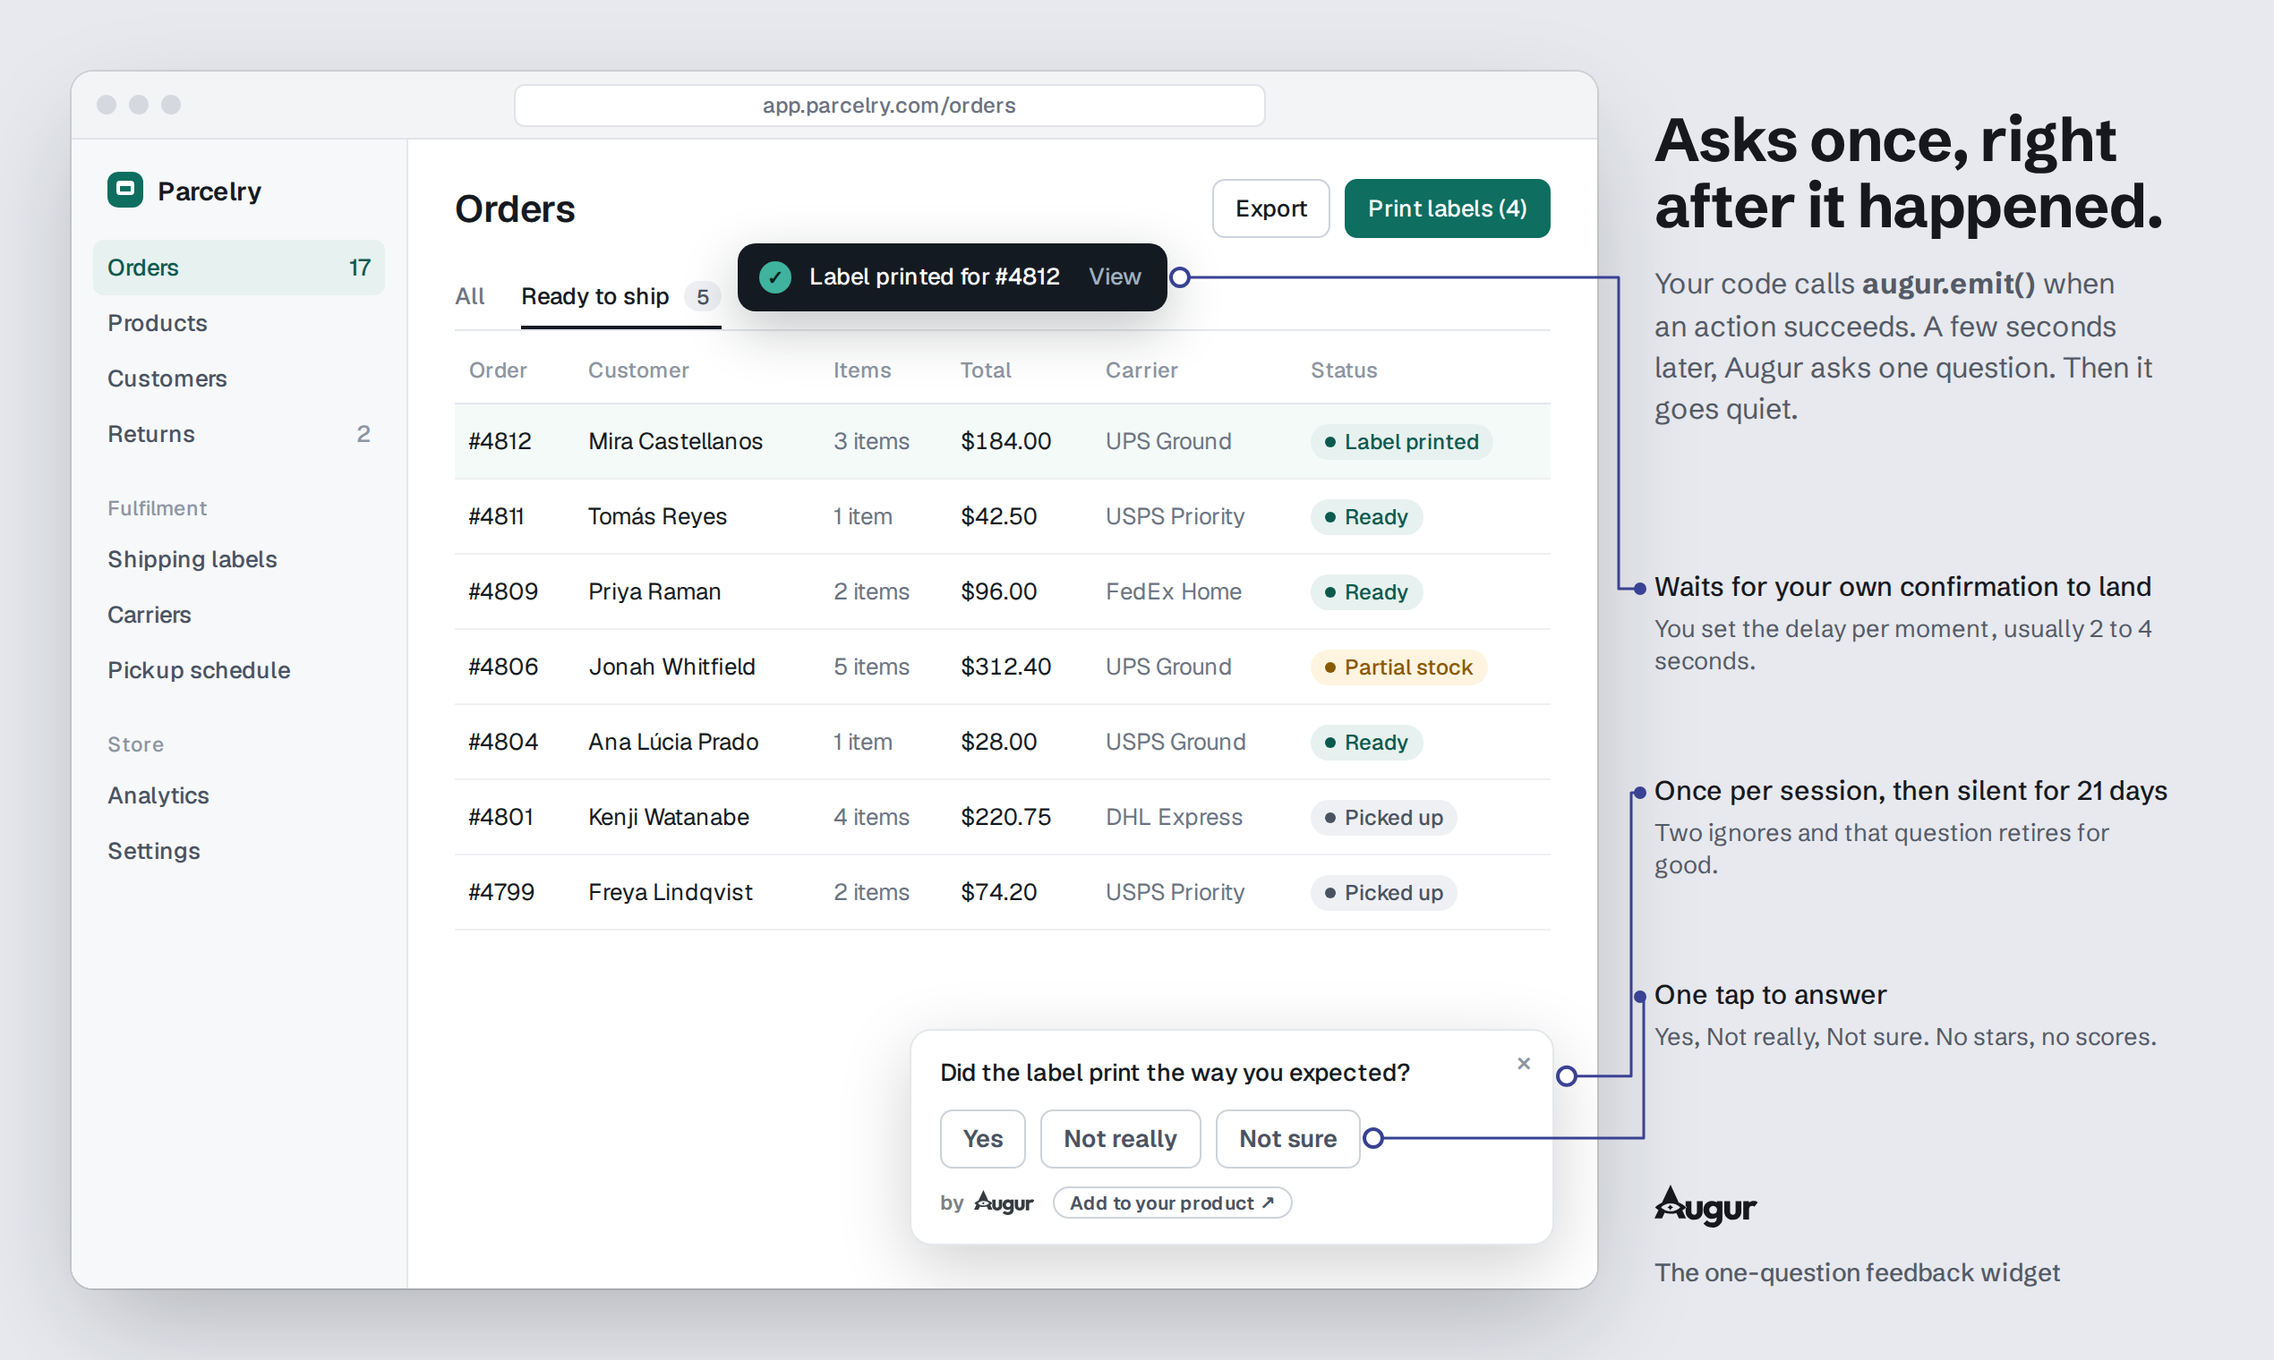
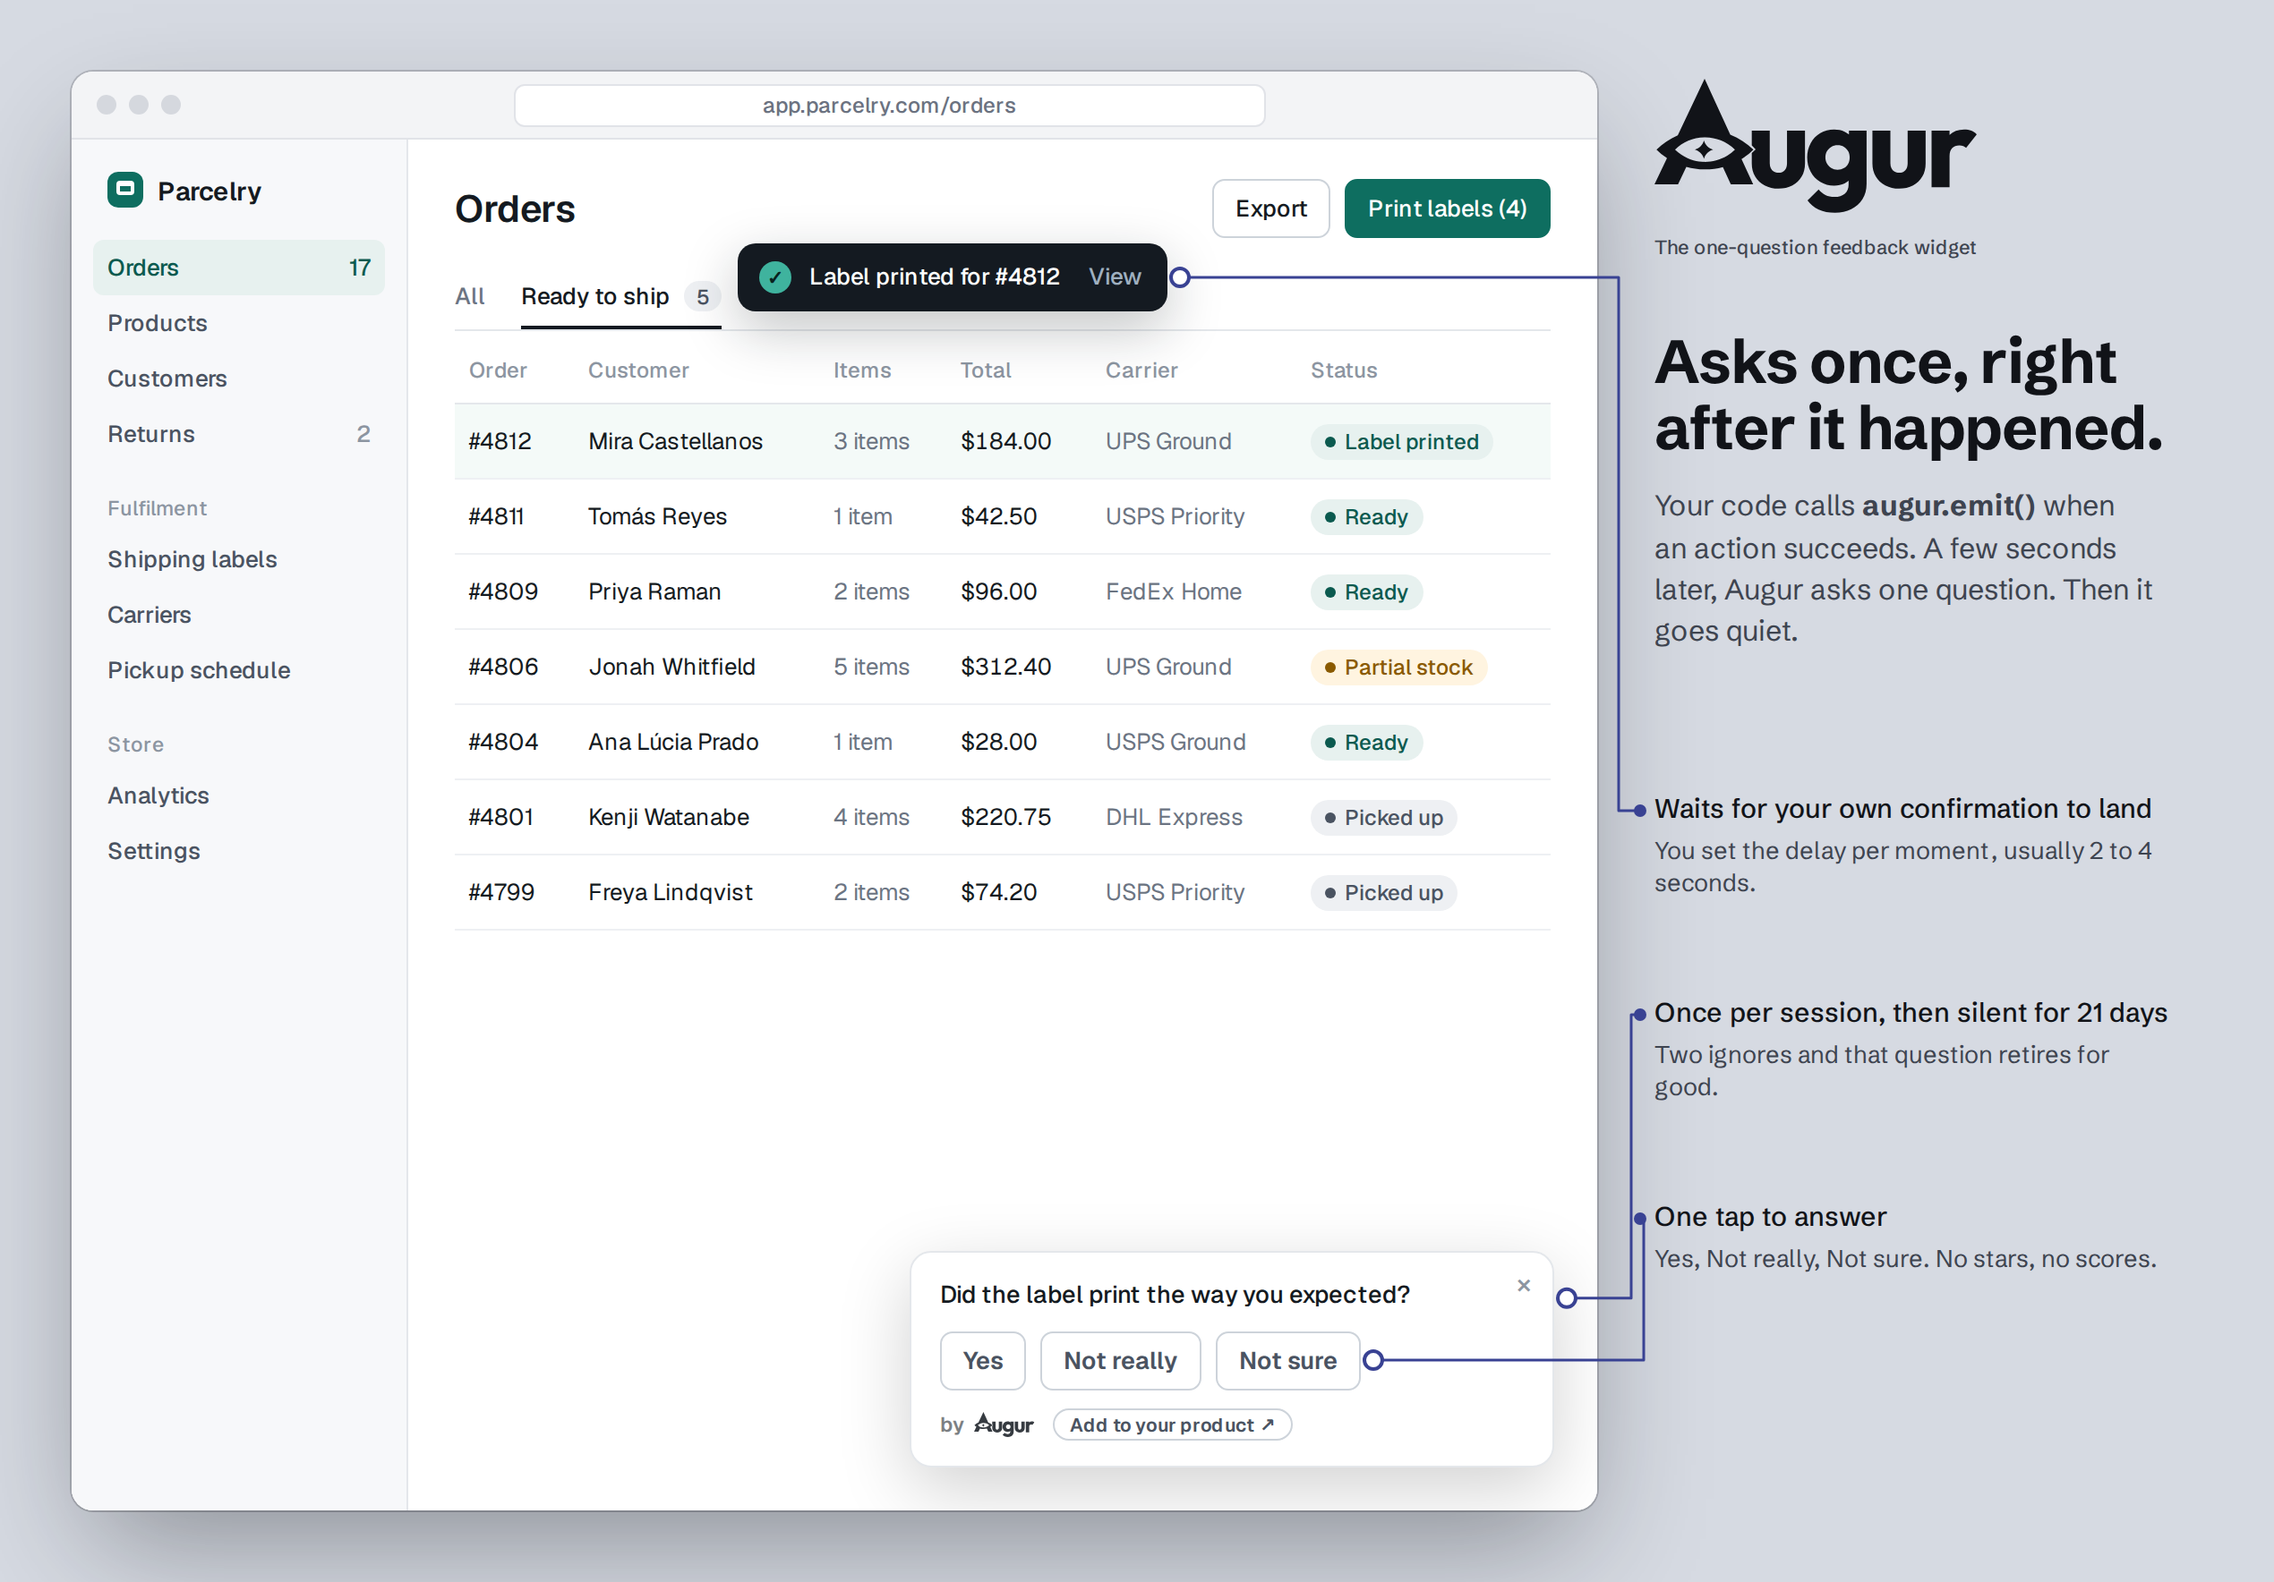
Gallery: higher contrast, larger wordmark lockup at top right
- Deeper frame ground, darker secondary text and a firmer window
  outline and shadow, so the product shot separates from the page.
- The Augur lockup moves from the bottom corner to the top of the side
  column, at 180px wide, on all three frames. The tagline is sized to
  run exactly the wordmark's width.
- Frames grow 124px taller to make room; the side column, notes, code
  card and prompt inset shift down with it, and the browser window
  grows to match. PNGs re-exported at 2x.

Claude-Session: https://claude.ai/code/session_0182RV45qnB2tjMoAwA4TVXF

diff --git a/.github/assets/gallery/gallery.html b/.github/assets/gallery/gallery.html
@@ -8,25 +8,27 @@
 <link href="https://fonts.googleapis.com/css2?family=Schibsted+Grotesk:wght@400;500;600;700&family=Geist:wght@400;500;600&family=Manrope:wght@400;500;600;700&family=Figtree:wght@400;500;600;700&family=JetBrains+Mono:wght@400;500&display=swap" rel="stylesheet">
 <style>
 /* ─── Gallery layer: the frame around each product shot ─────────────────── */
-:root { --mist: #E7E9EE; --ink: #16181D; --ink-2: #545A66; --pin: #394293; --pin-soft: #DADDF2; }
+:root { --mist: #D6DAE2; --ink: #111318; --ink-2: #3E4450; --top: 124px; --pin: #394293; --pin-soft: #DADDF2; }
 * { box-sizing: border-box; }
 body { margin: 0; background: #C9CDD5; padding: 40px 0; display: grid; gap: 40px; justify-content: center; font-family: "Schibsted Grotesk", system-ui, sans-serif; }
-.frame { position: relative; width: 1270px; height: 760px; background: var(--mist); overflow: hidden; color: var(--ink); }
+.frame { position: relative; width: 1270px; height: calc(760px + var(--top));  background: var(--mist); overflow: hidden; color: var(--ink); }
 .frame .lines { position: absolute; inset: 0; pointer-events: none; z-index: 5; }
 
-.side { position: absolute; left: 924px; top: 60px; width: 306px; }
+.side { position: absolute; left: 924px; top: 60px; width: 306px; translate: 0 var(--top); }
 .side h2 { font-size: 34px; line-height: 1.08; letter-spacing: -0.02em; font-weight: 700; margin: 0 0 14px; text-wrap: balance; }
 .side .sub { font-size: 16px; line-height: 1.45; color: var(--ink-2); margin: 0; text-wrap: pretty; }
-.brand { position: absolute; left: 924px; bottom: 40px; display: flex; flex-direction: column; align-items: flex-start; gap: 6px; line-height: 1.3; color: var(--ink); font-size: 14px; font-weight: 500; }
+.brand { position: absolute; left: 924px; top: 44px; width: 180px; display: flex; flex-direction: column; gap: 4px; color: var(--ink); }
+.brand .wm { width: 100%; height: auto; display: block; }
+.brand .by { display: block; white-space: nowrap; line-height: 1.1; font-weight: 500; }
 .brand .by { color: var(--ink-2); }
 
-.note { position: absolute; left: 924px; width: 290px; font-size: 15px; line-height: 1.38; font-weight: 500; }
+.note { position: absolute; left: 924px; width: 290px; translate: 0 var(--top); font-size: 15px; line-height: 1.38; font-weight: 500; }
 .note small { display: block; font-size: 13.5px; color: var(--ink-2); font-weight: 400; margin-top: 3px; }
 .note .n { display: inline-grid; place-items: center; width: 22px; height: 22px; border-radius: 50%; background: var(--pin); color: #fff; font-size: 12px; font-weight: 700; margin-right: 8px; vertical-align: 1px; }
 
 /* browser window */
-.win { position: absolute; left: 40px; top: 40px; width: 852px; height: 680px; border-radius: 12px; overflow: hidden;
-  box-shadow: 0 1px 0 rgba(0,0,0,.04), 0 24px 60px -12px rgba(22,24,29,.28), 0 0 0 1px rgba(22,24,29,.10); background: #fff; }
+.win { position: absolute; left: 40px; top: 40px; width: 852px; height: calc(680px + var(--top)); border-radius: 12px; overflow: hidden;
+  box-shadow: 0 1px 0 rgba(0,0,0,.04), 0 28px 64px -12px rgba(17,19,24,.38), 0 0 0 1px rgba(17,19,24,.18); background: #fff; }
 .chrome { height: 38px; display: flex; align-items: center; gap: 14px; padding: 0 14px; background: #F3F4F6; border-bottom: 1px solid #E1E3E8; }
 .chrome.dark { background: #1A1D23; border-bottom-color: #2A2E36; }
 .dots { display: flex; gap: 7px; } .dots i { width: 11px; height: 11px; border-radius: 50%; background: #D5D8DE; display: block; }
@@ -146,10 +148,10 @@ body { margin: 0; background: #C9CDD5; padding: 40px 0; display: grid; gap: 40px
 .cursor { position: absolute; z-index: 4; width: 20px; height: 24px; }
 
 /* inset: what augur.open() shows */
-.inset { position: absolute; left: 924px; width: 306px; }
+.inset { position: absolute; left: 924px; width: 306px; translate: 0 var(--top); }
 .inset .scaler { width: 460px; transform: scale(.665); transform-origin: 0 0; }
 .inset .augur { position: relative; right: auto; bottom: auto; }
-.code { font-variant-ligatures: none; font-feature-settings: "liga" 0, "calt" 0; position: absolute; left: 924px; width: 306px; background: #1B1E26; color: #D5DAE3; border-radius: 10px; padding: 12px 14px;
+.code { font-variant-ligatures: none; font-feature-settings: "liga" 0, "calt" 0; position: absolute; left: 924px; translate: 0 var(--top); width: 306px; background: #1B1E26; color: #D5DAE3; border-radius: 10px; padding: 12px 14px;
   font: 400 11.6px/1.6 "JetBrains Mono", monospace; white-space: pre; box-shadow: 0 10px 30px -10px rgba(22,24,29,.4); }
 .code .c { color: #7C8494; } .code .k { color: #C9B6FF; } .code .s { color: #A6D6A7; } .code .f { color: #8CC8FF; }
 .code, .code * { font-variant-ligatures: none; font-feature-settings: "liga" 0, "calt" 0; }
@@ -289,11 +291,20 @@ persistentButton: <span class="k">false</span>,
       <div class="by"><span class="w"><em>by</em> <svg width="33.64" height="14" viewBox="0 0 304.89 126.88" fill="currentColor" role="img" aria-label="Augur"><path d="m125.38,79.96c0,2.8-.71,5-2.15,6.62-1.43,1.62-3.4,2.43-5.91,2.43-1.69,0-3.16-.37-4.41-1.1-1.25-.74-2.21-1.79-2.87-3.15-.66-1.36-.99-2.96-.99-4.8v-30.8h-17.01v13.96l3.66,3.71-3.66,3.51v9.84c0,4.63,1.07,8.74,3.21,12.31,2.13,3.57,5.13,6.38,8.99,8.44,3.87,2.06,8.23,3.09,13.08,3.09s9.39-1.01,13.14-3.03c3.76-2.02,6.68-4.82,8.78-8.39,2.1-3.57,3.15-7.71,3.15-12.42v-31.02h-17.01v30.8Z"/><path d="m184,52.72c-1.23-1.03-2.61-1.9-4.14-2.62-2.9-1.37-6.2-2.05-9.88-2.05-4.85,0-9.21,1.16-13.08,3.48-3.86,2.32-6.9,5.46-9.11,9.44-2.2,3.97-3.31,8.5-3.31,13.58s1.11,9.42,3.31,13.47c2.21,4.04,5.23,7.25,9.06,9.6,3.82,2.36,8.2,3.53,13.13,3.53,3.68,0,6.98-.69,9.88-2.1,1.4-.67,2.67-1.46,3.81-2.38v3.27c0,3.83-1.19,6.77-3.58,8.83-2.4,2.06-5.69,3.09-9.88,3.09-3.24,0-6.06-.59-8.45-1.76-2.39-1.18-4.55-2.91-6.46-5.19l-10.49,10.37c2.58,3.68,6.09,6.53,10.55,8.56,4.45,2.02,9.58,3.04,15.4,3.04s10.87-1.13,15.4-3.37c4.52-2.25,8.07-5.43,10.65-9.55s3.86-8.94,3.86-14.46v-50.34h-16.67v3.56Zm-.71,27.73c-.92,1.73-2.25,3.11-3.98,4.14-1.73,1.04-3.77,1.55-6.12,1.55s-4.27-.51-5.97-1.55c-1.69-1.03-3.03-2.44-4.03-4.25-.99-1.8-1.49-3.73-1.49-5.79s.48-4.09,1.44-5.85c.96-1.77,2.32-3.17,4.08-4.2,1.77-1.03,3.79-1.54,6.08-1.54s4.37.51,6.07,1.54c1.69,1.03,3,2.43,3.92,4.2.92,1.76,1.38,3.68,1.38,5.74,0,2.28-.46,4.28-1.38,6.01Z"/><path d="m239.53,79.96c0,2.8-.71,5-2.15,6.62-1.43,1.62-3.4,2.43-5.91,2.43-1.69,0-3.16-.37-4.41-1.1-1.25-.74-2.21-1.79-2.87-3.15-.66-1.36-1-2.96-1-4.8v-30.8h-17v31.02c0,4.63,1.07,8.74,3.2,12.31,2.14,3.57,5.14,6.38,9,8.44,3.87,2.06,8.23,3.09,13.08,3.09s9.39-1.01,13.14-3.03,6.68-4.82,8.78-8.39,3.14-7.71,3.14-12.42v-31.02h-17v30.8Z"/><path d="m299.75,49.21c-1.95-.77-4.21-1.16-6.78-1.16-5.82,0-10.4,1.73-13.75,5.19l-.05.05v-4.13h-17.01v53.65h17.01v-29.37c0-3.46.82-6.05,2.48-7.78,1.66-1.73,3.92-2.59,6.79-2.59,1.4,0,2.65.22,3.75.66,1.11.44,1.99,1.03,2.65,1.77l10.05-12.81c-1.47-1.55-3.19-2.71-5.14-3.48Z"/><path d="m93.61,67.09c-6.22-6.12-13.65-11-21.91-14.25l-13.33-29L47.41,0l-10.74,22.65-14.66,30.93c-7.54,3.23-14.35,7.84-20.11,13.51,3.03,2.98,6.35,5.67,9.91,8.01L0,100h22.26l7.85-16.55c5.61,1.57,11.53,2.41,17.64,2.41s11.55-.77,16.95-2.22l7.52,16.36h21.15l-11.04-24.02c4.08-2.55,7.86-5.53,11.27-8.89Zm-24.48,5.49h0c-3.34,2.08-7,3.69-10.89,4.74-3.34.9-6.85,1.37-10.48,1.37s-7.44-.52-10.9-1.49c-4.07-1.13-7.87-2.89-11.31-5.16-2.2-1.45-4.25-3.11-6.12-4.95,3.56-3.5,7.77-6.35,12.43-8.35,4.7-2.02,9.87-3.17,15.3-3.25.21,0,.41,0,.61,0,.15,0,.3,0,.45,0,5.06.05,9.9,1.04,14.36,2.79,5.1,2.01,9.7,5.03,13.54,8.81-2.11,2.07-4.45,3.92-6.97,5.49Z"/><path d="m46.8,58.42c-1.14,4.23-4.44,7.53-8.67,8.67,4.23,1.14,7.53,4.44,8.67,8.67,1.14-4.23,4.44-7.53,8.67-8.67-4.23-1.14-7.53-4.44-8.67-8.67Z"/></svg></span><span class="pill">Add to your product <span aria-hidden="true">↗</span></span></div>
     </div></div></div>
   <div class="note" style="top:666px"><span class="n">3</span>Augur records it<small>Testing mode applies. Prompt limits don’t: the person chose to speak up.</small></div>
+  <div class="brand"><svg class="wm" width="57.68" height="24" viewBox="0 0 304.89 126.88" fill="currentColor" role="img" aria-label="Augur"><path d="m125.38,79.96c0,2.8-.71,5-2.15,6.62-1.43,1.62-3.4,2.43-5.91,2.43-1.69,0-3.16-.37-4.41-1.1-1.25-.74-2.21-1.79-2.87-3.15-.66-1.36-.99-2.96-.99-4.8v-30.8h-17.01v13.96l3.66,3.71-3.66,3.51v9.84c0,4.63,1.07,8.74,3.21,12.31,2.13,3.57,5.13,6.38,8.99,8.44,3.87,2.06,8.23,3.09,13.08,3.09s9.39-1.01,13.14-3.03c3.76-2.02,6.68-4.82,8.78-8.39,2.1-3.57,3.15-7.71,3.15-12.42v-31.02h-17.01v30.8Z"/><path d="m184,52.72c-1.23-1.03-2.61-1.9-4.14-2.62-2.9-1.37-6.2-2.05-9.88-2.05-4.85,0-9.21,1.16-13.08,3.48-3.86,2.32-6.9,5.46-9.11,9.44-2.2,3.97-3.31,8.5-3.31,13.58s1.11,9.42,3.31,13.47c2.21,4.04,5.23,7.25,9.06,9.6,3.82,2.36,8.2,3.53,13.13,3.53,3.68,0,6.98-.69,9.88-2.1,1.4-.67,2.67-1.46,3.81-2.38v3.27c0,3.83-1.19,6.77-3.58,8.83-2.4,2.06-5.69,3.09-9.88,3.09-3.24,0-6.06-.59-8.45-1.76-2.39-1.18-4.55-2.91-6.46-5.19l-10.49,10.37c2.58,3.68,6.09,6.53,10.55,8.56,4.45,2.02,9.58,3.04,15.4,3.04s10.87-1.13,15.4-3.37c4.52-2.25,8.07-5.43,10.65-9.55s3.86-8.94,3.86-14.46v-50.34h-16.67v3.56Zm-.71,27.73c-.92,1.73-2.25,3.11-3.98,4.14-1.73,1.04-3.77,1.55-6.12,1.55s-4.27-.51-5.97-1.55c-1.69-1.03-3.03-2.44-4.03-4.25-.99-1.8-1.49-3.73-1.49-5.79s.48-4.09,1.44-5.85c.96-1.77,2.32-3.17,4.08-4.2,1.77-1.03,3.79-1.54,6.08-1.54s4.37.51,6.07,1.54c1.69,1.03,3,2.43,3.92,4.2.92,1.76,1.38,3.68,1.38,5.74,0,2.28-.46,4.28-1.38,6.01Z"/><path d="m239.53,79.96c0,2.8-.71,5-2.15,6.62-1.43,1.62-3.4,2.43-5.91,2.43-1.69,0-3.16-.37-4.41-1.1-1.25-.74-2.21-1.79-2.87-3.15-.66-1.36-1-2.96-1-4.8v-30.8h-17v31.02c0,4.63,1.07,8.74,3.2,12.31,2.14,3.57,5.14,6.38,9,8.44,3.87,2.06,8.23,3.09,13.08,3.09s9.39-1.01,13.14-3.03,6.68-4.82,8.78-8.39,3.14-7.71,3.14-12.42v-31.02h-17v30.8Z"/><path d="m299.75,49.21c-1.95-.77-4.21-1.16-6.78-1.16-5.82,0-10.4,1.73-13.75,5.19l-.05.05v-4.13h-17.01v53.65h17.01v-29.37c0-3.46.82-6.05,2.48-7.78,1.66-1.73,3.92-2.59,6.79-2.59,1.4,0,2.65.22,3.75.66,1.11.44,1.99,1.03,2.65,1.77l10.05-12.81c-1.47-1.55-3.19-2.71-5.14-3.48Z"/><path d="m93.61,67.09c-6.22-6.12-13.65-11-21.91-14.25l-13.33-29L47.41,0l-10.74,22.65-14.66,30.93c-7.54,3.23-14.35,7.84-20.11,13.51,3.03,2.98,6.35,5.67,9.91,8.01L0,100h22.26l7.85-16.55c5.61,1.57,11.53,2.41,17.64,2.41s11.55-.77,16.95-2.22l7.52,16.36h21.15l-11.04-24.02c4.08-2.55,7.86-5.53,11.27-8.89Zm-24.48,5.49h0c-3.34,2.08-7,3.69-10.89,4.74-3.34.9-6.85,1.37-10.48,1.37s-7.44-.52-10.9-1.49c-4.07-1.13-7.87-2.89-11.31-5.16-2.2-1.45-4.25-3.11-6.12-4.95,3.56-3.5,7.77-6.35,12.43-8.35,4.7-2.02,9.87-3.17,15.3-3.25.21,0,.41,0,.61,0,.15,0,.3,0,.45,0,5.06.05,9.9,1.04,14.36,2.79,5.1,2.01,9.7,5.03,13.54,8.81-2.11,2.07-4.45,3.92-6.97,5.49Z"/><path d="m46.8,58.42c-1.14,4.23-4.44,7.53-8.67,8.67,4.23,1.14,7.53,4.44,8.67,8.67,1.14-4.23,4.44-7.53,8.67-8.67-4.23-1.14-7.53-4.44-8.67-8.67Z"/></svg><span class="by">The one-question feedback widget</span></div>
 </section>
 
 <script>
 // Leader lines: from each note's edge to its target inside the product shot.
+// Size the tagline so it runs exactly the wordmark's width.
+function fitBrand() {
+  document.querySelectorAll(".brand").forEach(b => {
+    const t = b.querySelector(".by"); t.style.fontSize = "20px";
+    t.style.fontSize = (20 * b.clientWidth / t.scrollWidth).toFixed(2) + "px";
+  });
+}
 function drawLines() {
+  fitBrand();
   document.querySelectorAll(".frame").forEach(f => {
     f.querySelector("svg.lines")?.remove();
     const fr = f.getBoundingClientRect();
